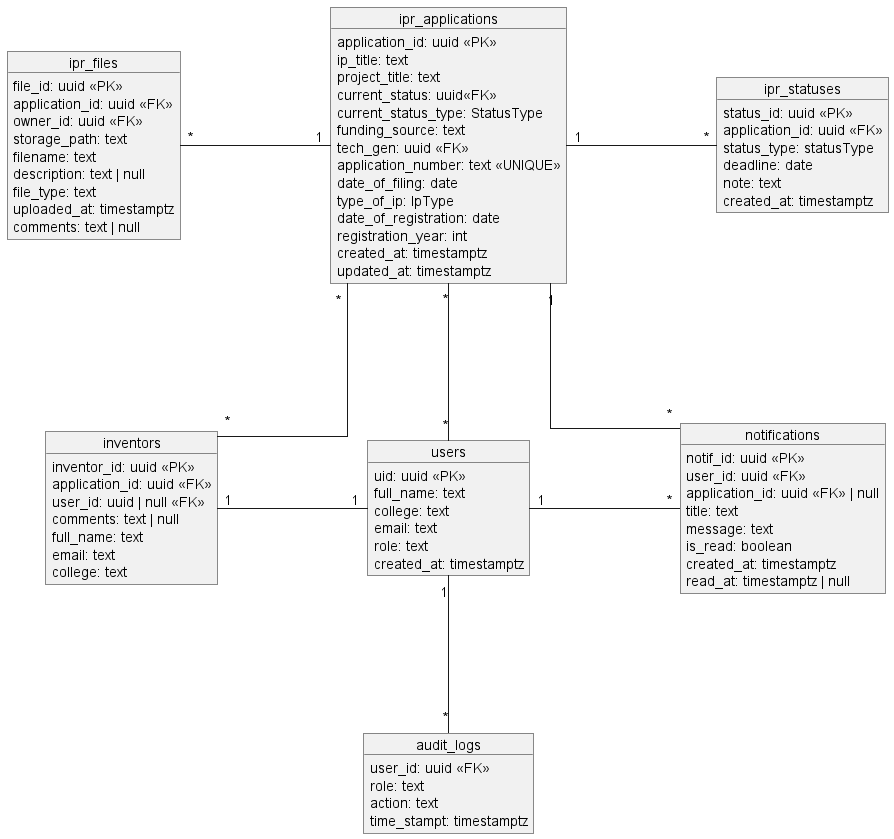
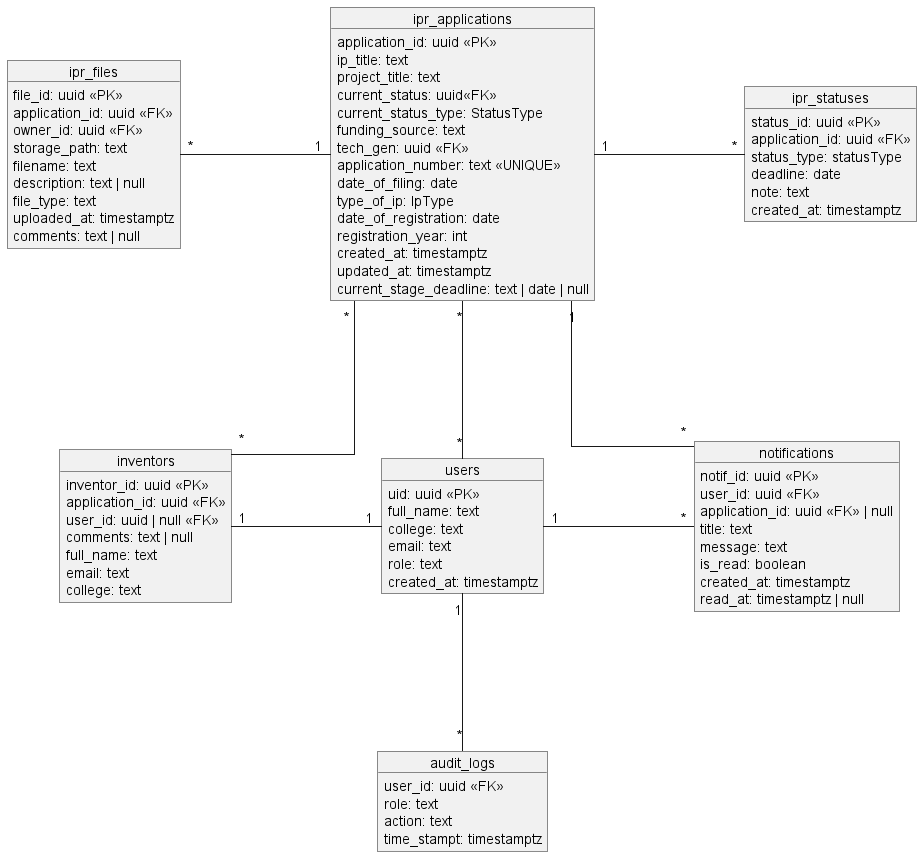
fix(ip-flow): fixed the flow for specific ipr applications

diff --git a/code/src/lib/structs/ip-flow.ts b/code/src/lib/structs/ip-flow.ts
@@ -15,8 +15,8 @@ export const ipApplicationFlows: Record<IpType, FlowStep[]> = {
     { 
       id: 'idf', 
       label: 'Submit Patent IDF', 
-      statusTypes: ['draft_idf', 'submitted_to_ttbdo', 'under_ttbdo_review'], // Fix: under_ttbdo_review added
-      charterStage: 'STAGE_1' 
+      statusTypes: ['draft_idf', 'submitted_to_ttbdo', 'under_ttbdo_review'], 
+      charterStage: 'STAGE_1'
     },
     { id: 'prior-art', label: 'Prior Art Search', statusTypes: ['prior_art_search'], charterStage: 'STAGE_1' },
     { id: 'draft', label: 'Draft Application', statusTypes: ['draft_application'], charterStage: 'STAGE_2' },
@@ -24,29 +24,47 @@ export const ipApplicationFlows: Record<IpType, FlowStep[]> = {
     { 
       id: 'exam', 
       label: 'Examination & Responses', 
-      statusTypes: ['wait_formality_exam_report', 'wait_substantive_exam_report', 'resolve_rr_defects'] // Fix: resolve_rr_defects added
+      statusTypes: ['wait_substantive_exam_report', 'resolve_ser_defects']
     },
     { id: 'grant', label: 'Grant / Registration', statusTypes: ['registered', 'closed'] },
   ],
   utility_model: [
     { id: 'classification', label: 'Choose IP Type', statusTypes: ['draft_classification'] },
     { id: 'idf', label: 'Submit UM IDF', statusTypes: ['draft_idf', 'submitted_to_ttbdo', 'under_ttbdo_review'], charterStage: 'STAGE_1' },
-    { id: 'search', label: 'Registrability Check', statusTypes: ['prior_art_search', 'wait_registrability_report'], charterStage: 'STAGE_1' },
+    { id: 'prior-art', label: 'Prior Art Search', statusTypes: ['prior_art_search'], charterStage: 'STAGE_1' },
+    { id: 'draft', label: 'Draft Application', statusTypes: ['draft_application'], charterStage: 'STAGE_2' },
     { id: 'file', label: 'File with IPOPHL', statusTypes: ['filed_with_ipophil'], charterStage: 'STAGE_3' },
+    { 
+      id: 'exam', 
+      label: 'Examination & Responses', 
+      statusTypes: ['wait_formality_exam_report', 'resolve_fer_defects']
+    },
     { id: 'grant', label: 'Grant / Registration', statusTypes: ['registered', 'closed'] },
   ],
   industrial_design: [
     { id: 'classification', label: 'Choose IP Type', statusTypes: ['draft_classification'] },
     { id: 'idf', label: 'Submit ID Design Form', statusTypes: ['draft_idf', 'submitted_to_ttbdo', 'under_ttbdo_review'], charterStage: 'STAGE_1' },
-    { id: 'search', label: 'Registrability Check', statusTypes: ['wait_registrability_report'], charterStage: 'STAGE_1' },
+    { id: 'prior-art', label: 'Prior Art Search', statusTypes: ['prior_art_search'], charterStage: 'STAGE_1' },
+    { id: 'draft', label: 'Draft Application', statusTypes: ['draft_application'], charterStage: 'STAGE_2' },
     { id: 'file', label: 'File with IPOPHL', statusTypes: ['filed_with_ipophil'], charterStage: 'STAGE_3' },
+    { 
+      id: 'exam', 
+      label: 'Examination & Responses', 
+      statusTypes: ['wait_formality_exam_report', 'resolve_fer_defects']
+    },
     { id: 'grant', label: 'Grant / Registration', statusTypes: ['registered', 'closed'] },
   ],
   trademark: [
     { id: 'classification', label: 'Choose IP Type', statusTypes: ['draft_classification'] },
     { id: 'idf', label: 'Submit Trademark Form', statusTypes: ['draft_idf', 'submitted_to_ttbdo', 'under_ttbdo_review'], charterStage: 'STAGE_1' },
-    { id: 'search', label: 'Nice Classification & Search', statusTypes: ['prepare_nice_classification', 'approve_nice_classification'], charterStage: 'STAGE_1' },
-    { id: 'file', label: 'File with IPOPHL', statusTypes: ['filed_with_ipophil', 'wait_registrability_report'], charterStage: 'STAGE_3' },
+    { id: 'prior-art', label: 'Prior Art Search', statusTypes: ['prior_art_search'], charterStage: 'STAGE_2' },
+    { id: 'nice_classification', label: 'Nice Classification & Search', statusTypes: ['prepare_nice_classification', 'approve_nice_classification']},
+    { id: 'file', label: 'File with IPOPHL', statusTypes: ['filed_with_ipophil'], charterStage: 'STAGE_3' },
+    { 
+      id: 'exam', 
+      label: 'Examination & Responses', 
+      statusTypes: ['wait_registrability_report', 'resolve_rr_defects']
+    },
     { id: 'grant', label: 'Grant / Registration', statusTypes: ['registered', 'closed'] },
   ],
   copyright: [

diff --git a/code/src/lib/types/ip.ts b/code/src/lib/types/ip.ts
@@ -21,7 +21,10 @@ export type StatusType =
   | 'wait_substantive_exam_report'
   | 'prepare_nice_classification'
   | 'approve_nice_classification'
+  | 'resolve_ser_defects'
+  | 'resolve_fer_defects'
   | 'resolve_rr_defects'
+  | 'resolve_additional_requirements'
   | 'request_revival'
   | 'downgraded_to_um'
   | 'registered'
@@ -38,7 +41,7 @@ export const ipStatuses = {
     'draft_application',
     'filed_with_ipophil',
     'wait_formality_exam_report',
-    'resolve_rr_defects',
+    'resolve_ser_defects',
     'wait_substantive_exam_report',
     'downgraded_to_um',
     'registered',
@@ -53,7 +56,7 @@ export const ipStatuses = {
     'draft_application',
     'filed_with_ipophil',
     'wait_registrability_report',
-    'resolve_rr_defects',
+    'resolve_fer_defects',
     'registered',
     'closed',
   ],
@@ -64,7 +67,7 @@ export const ipStatuses = {
     'under_ttbdo_review',
     'filed_with_ipophil',
     'wait_registrability_report',
-    'resolve_rr_defects',
+    'resolve_fer_defects',
     'registered',
     'closed',
   ],
@@ -85,6 +88,7 @@ export const ipStatuses = {
     'draft_idf',
     'submitted_to_ttbdo',
     'under_ttbdo_review',
+    'resolve_additional_requirements',
     'registered',
     'closed',
   ],
